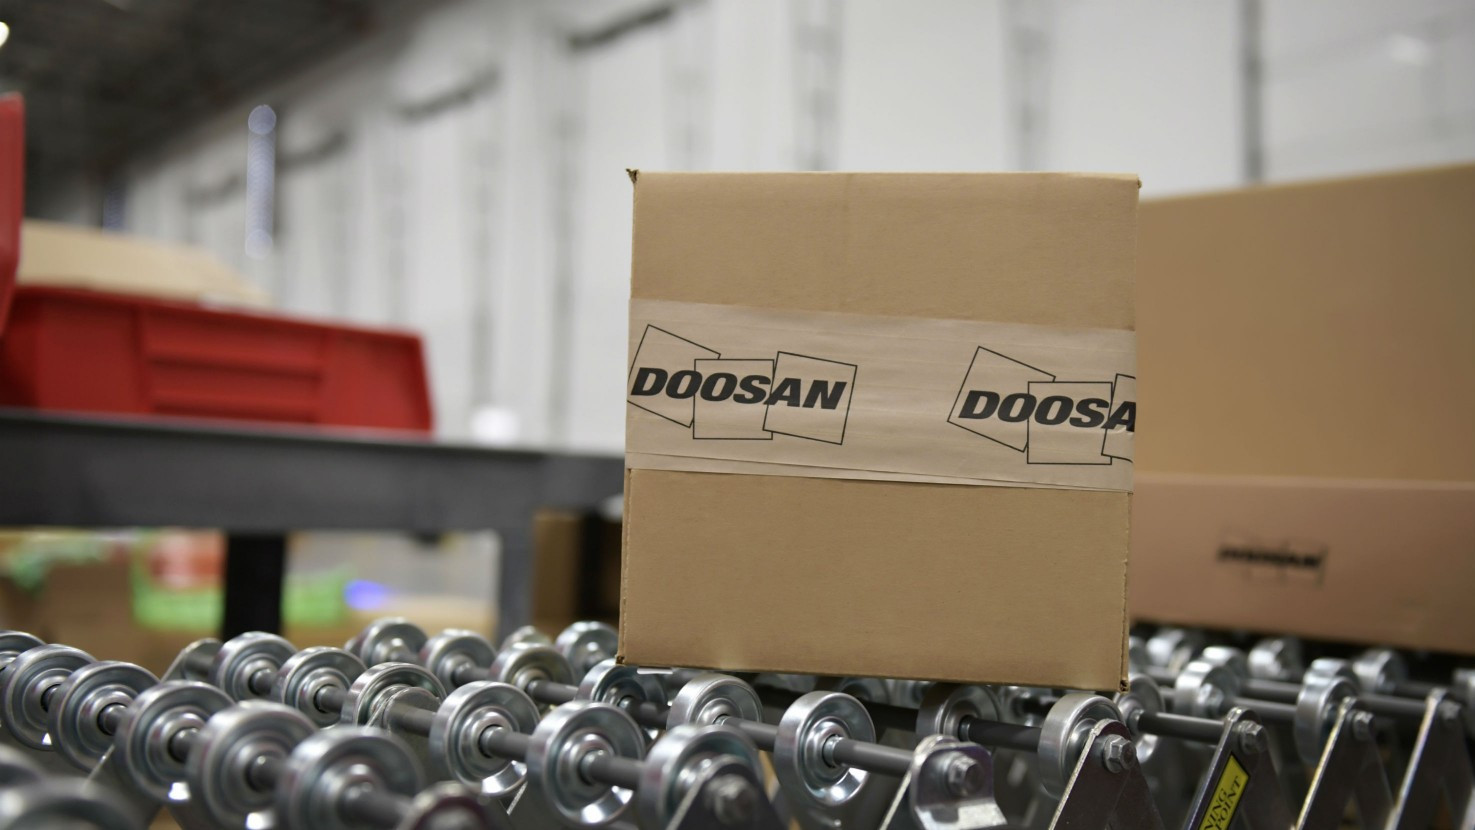
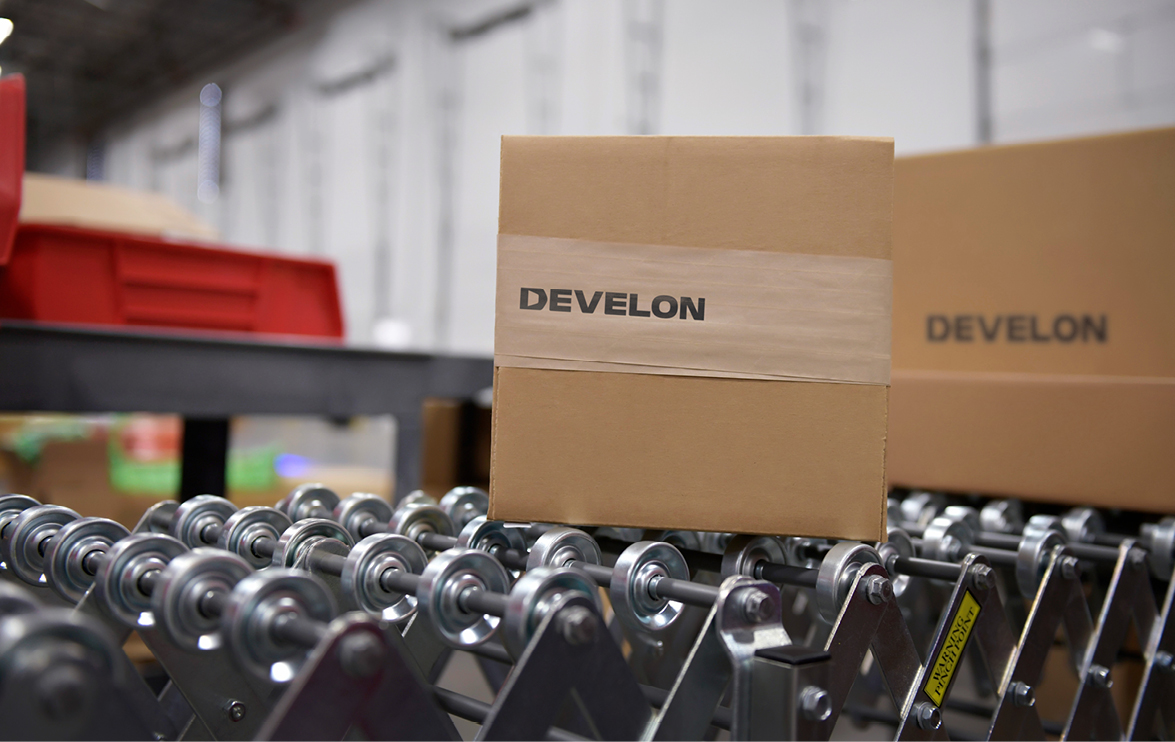
Добавлена страница 404

diff --git a/src/pages/Home.jsx b/src/pages/Home.jsx
@@ -5,9 +5,9 @@ import menuItem_pk from '../assets/img/menuItem_pk.jpeg';
 import menuItem_servis from '../assets/img/menuItem_servis.jpeg'
 import ActionTizer from '../Components/ActionTizer';
 
-const description_tk = "Поставка строительной техники Doosan, индивидуальный подход к каждому клиенту, возможна поставка нестандартных комплектующих.";
-const description_pk = "Оригинальные запчасти Doosan  в наличии и под заказ.";
-const description_servis = "Предоставляем качественный сервис, обслуживание и ремонт техники Doosan.";
+const description_tk = "Поставка строительной техники Develon, индивидуальный подход к каждому клиенту, возможна поставка нестандартных комплектующих.";
+const description_pk = "Оригинальные запчасти Develon  в наличии и под заказ.";
+const description_servis = "Предоставляем качественный сервис, обслуживание и ремонт техники Develon.";
 
 export default function Home() {
     return (
@@ -24,8 +24,8 @@ export default function Home() {
             </div>
             <div className='container__my'>
                 <div className="content__items">
-                    <HomeItem title='Каталог техники Doosan' image={menuItem_tk} type="/tkatalog" text={description_tk} />
-                    <HomeItem title='Каталог запчастей Doosan' image={menuItem_pk} type="/parts" text={description_pk} />
+                    <HomeItem title='Каталог техники Develon' image={menuItem_tk} type="/tkatalog" text={description_tk} />
+                    <HomeItem title='Каталог запчастей Develon' image={menuItem_pk} type="/parts/pkatalog" text={description_pk} />
                     <HomeItem title='Сервис' image={menuItem_servis} type="/service" text={description_servis} />
                 </div>
             </div>

diff --git a/src/router.js b/src/router.js
@@ -8,6 +8,7 @@ import InfoPage from './pages/InfoPage';
 import ServicePage from './pages/ServicePage';
 import CompanyPage from './pages/CompanyPage';
 import OptionalPage from './pages/OptionalPage';
+
 import {
     ADMIN_ROUTE,
     CART_ROUTE,
@@ -26,7 +27,8 @@ import {
     PARTS_OIL_ROUTE,
     PARTS_INDEX_ROUTE,
     OPTIONAL_ROUTE,
-    OPTIONAL_INFO_ROUTE
+    OPTIONAL_INFO_ROUTE,
+    NOTPAGE_ROUTE
 } from './utils/consts';
 import AdminPage from './pages/AdminPage';
 import AuthPage from './pages/AuthPage';
@@ -36,6 +38,7 @@ import Filter from "./pages/Parts Page/Filter";
 import Oil from './pages/Parts Page/Oil';
 import IndexParts from './pages/Parts Page/IndexParts';
 import OptionalInfoPage from './pages/OptionalInfoPage';
+import NotPage from './pages/NotPage';
 
 export const authRoutes = [
     {
@@ -115,6 +118,10 @@ export const publicRoutes = [
     {
         path: OPTIONAL_INFO_ROUTE + '/:id',
         Component: <OptionalInfoPage />
+    },
+    {
+        path: NOTPAGE_ROUTE,
+        Component: <NotPage />
     },
 
 ]

diff --git a/src/Components/AppRouter.jsx b/src/Components/AppRouter.jsx
@@ -1,7 +1,7 @@
 import React from 'react';
 import { Routes, Route, Navigate } from 'react-router-dom';
 import { authRoutes, publicRoutes } from '../router';
-import { HOME_ROUTE } from '../utils/consts';
+import { NOTPAGE_ROUTE } from '../utils/consts';
 import { useSelector } from 'react-redux';
 import IndexParts from '../pages/Parts Page/IndexParts';
 
@@ -24,7 +24,7 @@ export default function AppRouter() {
                 </Route>
             )}
 
-            <Route path="*" element={<Navigate to={HOME_ROUTE} replace />} />
+            <Route path="*" element={<Navigate to={NOTPAGE_ROUTE} replace status={404} />} />
         </Routes>
     )
 }

diff --git a/src/pages/NotPage.jsx b/src/pages/NotPage.jsx
@@ -1,0 +1,17 @@
+import React from 'react';
+import { Link } from 'react-router-dom';
+
+export default function NotPage() {
+    return (
+        <div className='container'>
+            <div className='cart cart--empty'>
+                <span>😕</span>
+                <h2>Такой страницы не существует</h2>
+                <p>Пожалуйста, перейдите на главную страницу</p>
+                <Link to='/' className='button button--black'>
+                    <span>Перейти на главную</span>
+                </Link>
+            </div>
+        </div>
+    )
+}

diff --git a/src/Components/CartEmpty.jsx b/src/Components/CartEmpty.jsx
@@ -8,11 +8,10 @@ export default function CartEmpty() {
                 <span>😕</span>
                 <h2>Список пуст</h2>
                 <p>Перейдите в каталог, что бы найти запчасти</p>
-                <Link to='/pkatalog' className='button button--black'>
+                <Link to='/parts/pkatalog' className='button button--black'>
                     <span>Выбрать</span>
                 </Link>
             </div>
         </div>
     )
 }
-

diff --git a/src/utils/consts.js b/src/utils/consts.js
@@ -16,3 +16,4 @@ export const PARTS_OIL_ROUTE = 'oil';
 export const PARTS_INDEX_ROUTE = "index";
 export const OPTIONAL_ROUTE = "/optional";
 export const OPTIONAL_INFO_ROUTE = "/optional/info";
+export const NOTPAGE_ROUTE = "/notpage";

diff --git a/src/scss/app.scss b/src/scss/app.scss
@@ -480,6 +480,10 @@ body {
     width: 560px;
     text-align: center;
 
+    @media (max-width: 570px) {
+      width: 300px;
+    }
+
     h2 {
       font-size: 32px;
       margin-bottom: 10px;
